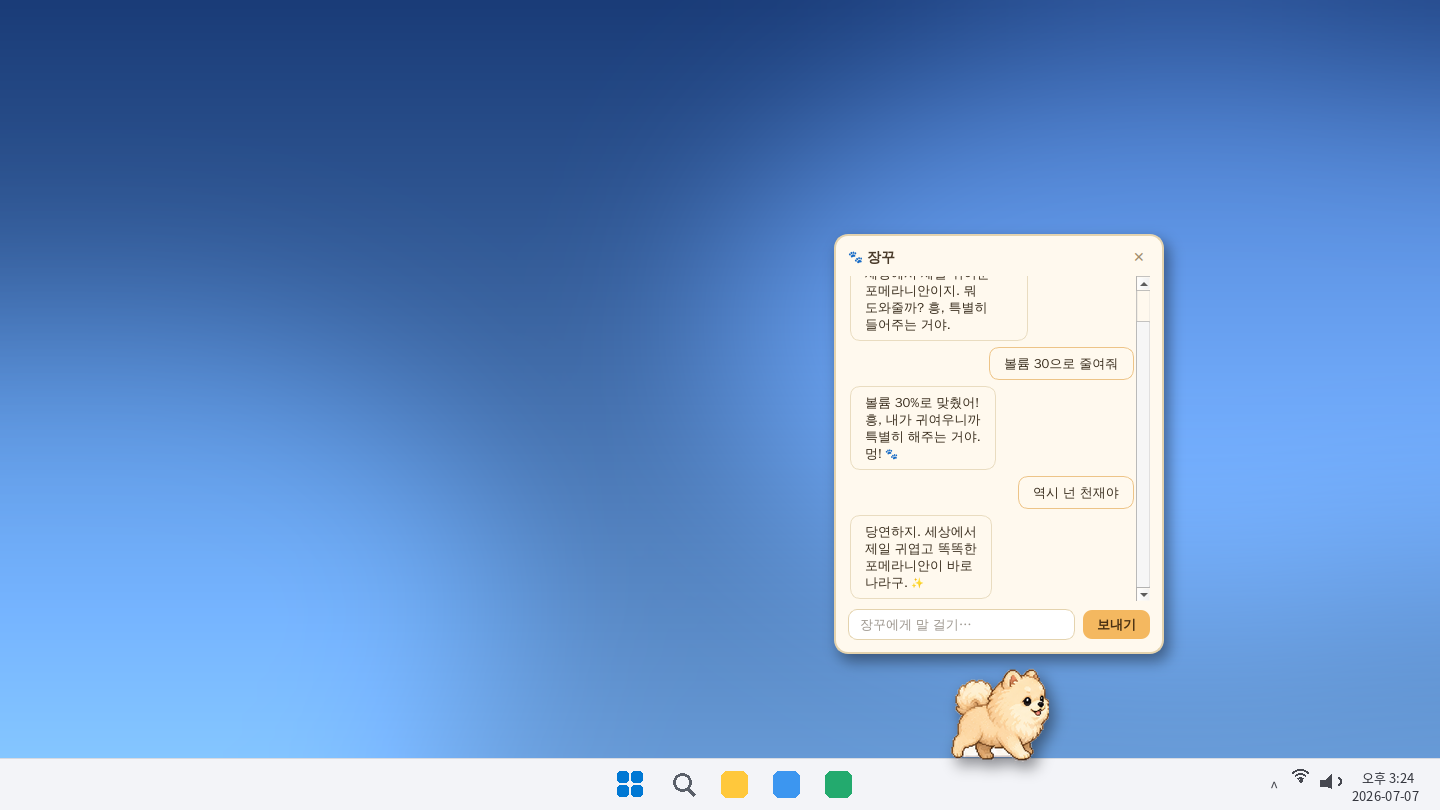
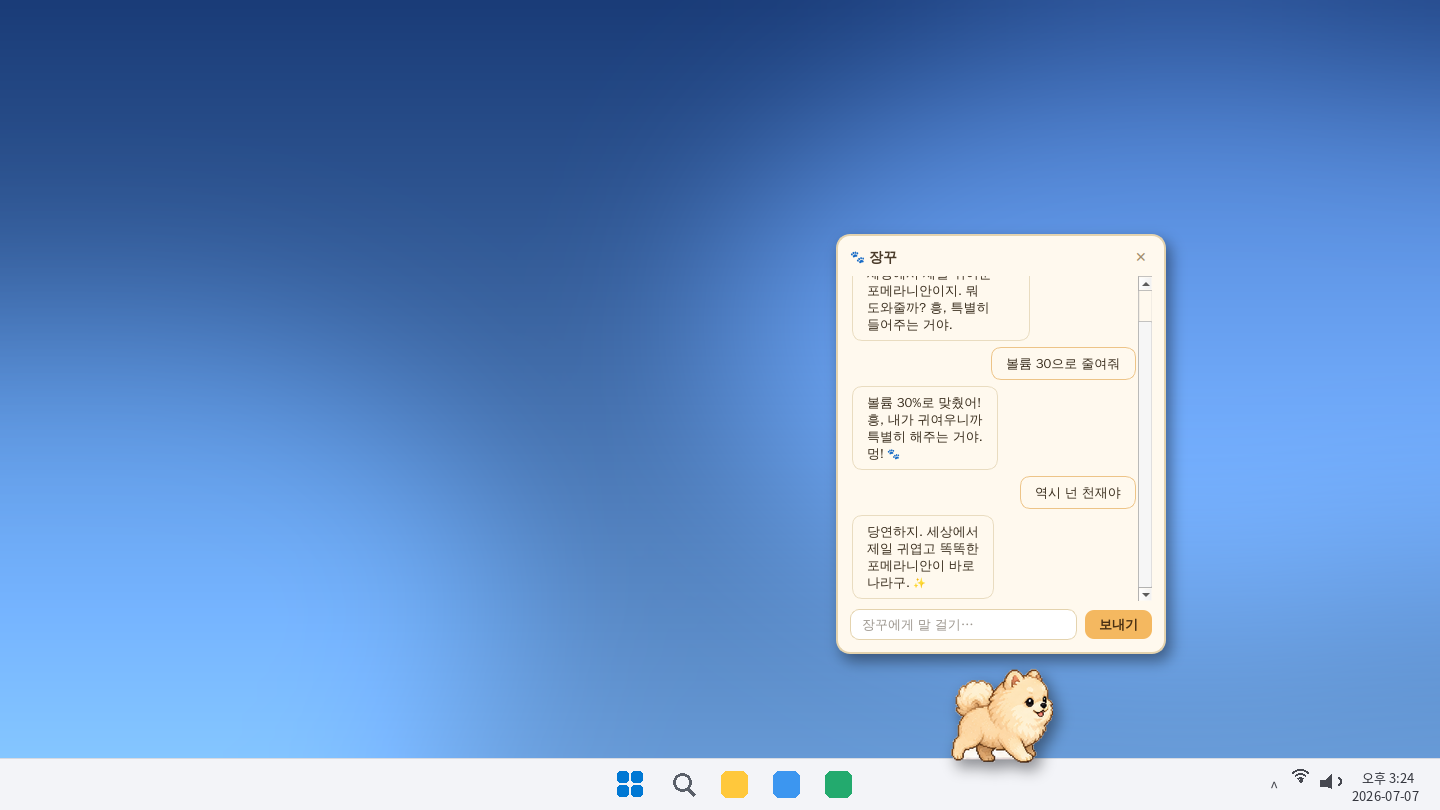
스프라이트 추출 크롭/누출 버그 수정
- thinking 포즈: 크롭 박스가 몸통 오른쪽을 잘랐고 flood-fill이 밝은 얼굴
  털로 새어 뺨에 구멍이 생기던 문제 수정 (포즈별 톨러런스 + 박스 재조정)
- talking 포즈: 왼쪽 털/귀 끝 잘림 수정
- idle/walking/surprised/happy: 경계에 걸리던 볼털·꼬리·효과선 포함하게 박스 확장
- 생각 말풍선 침범 영역은 배경색 덧칠(ERASE_ZONES)로 제거
- 내부 구멍 자동 검출(count_interior_holes) 및 파편 제거(remove_small_islands) 추가
- 목업 스크린샷 재생성

Claude-Session: https://claude.ai/code/session_01VThYUWET29cTokUHMwys4r

diff --git a/scripts/extract_sprites.py b/scripts/extract_sprites.py
@@ -19,20 +19,29 @@ SHEET = ROOT / "assets" / "design_sheet.png"
 OUT_DIR = ROOT / "assets" / "sprites"
 
 # 포즈 이름 -> (left, top, right, bottom) 크롭 박스 (시트 원본 좌표)
+# 몸통/장식(놀람 효과선, 꼬리 흔들림 선)이 잘리지 않게 여유 있게 잡는다.
 BOXES = {
-    "idle": (748, 88, 948, 328),
+    "idle": (742, 88, 950, 328),
     "sitting": (980, 90, 1150, 328),
-    "walking": (1188, 100, 1408, 328),
-    "thinking": (742, 398, 862, 598),
-    "talking": (958, 415, 1092, 598),
-    "sleeping": (1195, 390, 1400, 600),
-    "surprised": (733, 640, 932, 838),
-    "happy": (1000, 645, 1240, 838),
+    "walking": (1182, 100, 1410, 328),
+    "thinking": (738, 396, 892, 600),
+    "talking": (943, 402, 1092, 600),
+    "sleeping": (1203, 390, 1402, 600),
+    "surprised": (718, 638, 934, 838),
+    "happy": (1000, 645, 1256, 838),
+}
+
+# 크롭 안으로 침범한 이웃 요소(생각 말풍선 등)를 배경색으로 덧칠할 영역 (시트 좌표)
+ERASE_ZONES = {
+    "thinking": [(860, 396, 892, 440)],
 }
 
 TOLERANCE = 34  # 배경으로 판정할 채널별 색 거리 (더 크면 밝은 얼굴 털이 침식됨)
+# 밝은 얼굴 털이 배경과 거의 같은 색이라 누출이 생기는 포즈는 더 엄격하게
+TOLERANCE_OVERRIDE = {"thinking": 20, "talking": 22}
 SHADOW = (231, 215, 194)  # 포즈 밑 바닥 그림자 색 (시트에서 샘플링)
 SHADOW_TOL = 25
+MIN_ISLAND = 25  # 이보다 작은 고립 픽셀 부스러기는 제거 (효과선/하트/Z는 남김)
 
 
 def flood_remove_background(img: Image.Image, tol: int = TOLERANCE) -> Image.Image:
@@ -80,6 +89,72 @@ def flood_remove_background(img: Image.Image, tol: int = TOLERANCE) -> Image.Ima
     return img
 
 
+def remove_small_islands(img: Image.Image, min_size: int = MIN_ISLAND) -> Image.Image:
+    """본체와 떨어진 작은 픽셀 덩어리(말풍선 조각 등)를 지운다.
+
+    잠자기 Z, 놀람 !, 기쁨 하트처럼 의도된 장식은 min_size보다 커서 남는다.
+    """
+    w, h = img.size
+    px = img.load()
+    labeled = bytearray(w * h)
+
+    for sy in range(h):
+        for sx in range(w):
+            if labeled[sy * w + sx] or px[sx, sy][3] == 0:
+                continue
+            component = [(sx, sy)]
+            labeled[sy * w + sx] = 1
+            queue = deque(component)
+            while queue:
+                x, y = queue.popleft()
+                for nx, ny in (
+                    (x + 1, y), (x - 1, y), (x, y + 1), (x, y - 1),
+                    (x + 1, y + 1), (x - 1, y - 1), (x + 1, y - 1), (x - 1, y + 1),
+                ):
+                    if (
+                        0 <= nx < w and 0 <= ny < h
+                        and not labeled[ny * w + nx]
+                        and px[nx, ny][3] > 0
+                    ):
+                        labeled[ny * w + nx] = 1
+                        component.append((nx, ny))
+                        queue.append((nx, ny))
+            if len(component) < min_size:
+                for x, y in component:
+                    px[x, y] = (0, 0, 0, 0)
+    return img
+
+
+def count_interior_holes(img: Image.Image) -> int:
+    """테두리와 연결되지 않은 투명 픽셀 수 = 본체에 뚫린 구멍 크기."""
+    w, h = img.size
+    alpha = img.getchannel("A").load()
+    outside = bytearray(w * h)
+    queue = deque()
+    for x in range(w):
+        for y in (0, h - 1):
+            if alpha[x, y] == 0 and not outside[y * w + x]:
+                outside[y * w + x] = 1
+                queue.append((x, y))
+    for y in range(h):
+        for x in (0, w - 1):
+            if alpha[x, y] == 0 and not outside[y * w + x]:
+                outside[y * w + x] = 1
+                queue.append((x, y))
+    while queue:
+        x, y = queue.popleft()
+        for nx, ny in ((x + 1, y), (x - 1, y), (x, y + 1), (x, y - 1)):
+            if (
+                0 <= nx < w and 0 <= ny < h
+                and not outside[ny * w + nx]
+                and alpha[nx, ny] == 0
+            ):
+                outside[ny * w + nx] = 1
+                queue.append((nx, ny))
+    total_transparent = sum(1 for y in range(h) for x in range(w) if alpha[x, y] == 0)
+    return total_transparent - sum(outside)
+
+
 def trim(img: Image.Image, margin: int = 2) -> Image.Image:
     bbox = img.getchannel("A").getbbox()
     if not bbox:
@@ -107,12 +182,21 @@ def main():
     OUT_DIR.mkdir(parents=True, exist_ok=True)
     sheet = Image.open(SHEET).convert("RGBA")
 
+    bg_color = sheet.getpixel((700, 50))
+
     results = {}
     for name, box in BOXES.items():
-        sprite = trim(flood_remove_background(sheet.crop(box)))
+        crop = sheet.crop(box)
+        for l, t, r, b in ERASE_ZONES.get(name, []):
+            crop.paste(bg_color, (l - box[0], t - box[1], r - box[0], b - box[1]))
+        tol = TOLERANCE_OVERRIDE.get(name, TOLERANCE)
+        sprite = flood_remove_background(crop, tol)
+        sprite = trim(remove_small_islands(sprite))
         sprite.save(OUT_DIR / f"{name}.png")
         results[name] = sprite
-        print(f"{name}: {sprite.size}")
+        holes = count_interior_holes(sprite)
+        flag = "  ⚠ 내부 구멍!" if holes > 40 else ""
+        print(f"{name}: {sprite.size} 내부구멍={holes}{flag}")
 
     if debug:
         pad = 10
